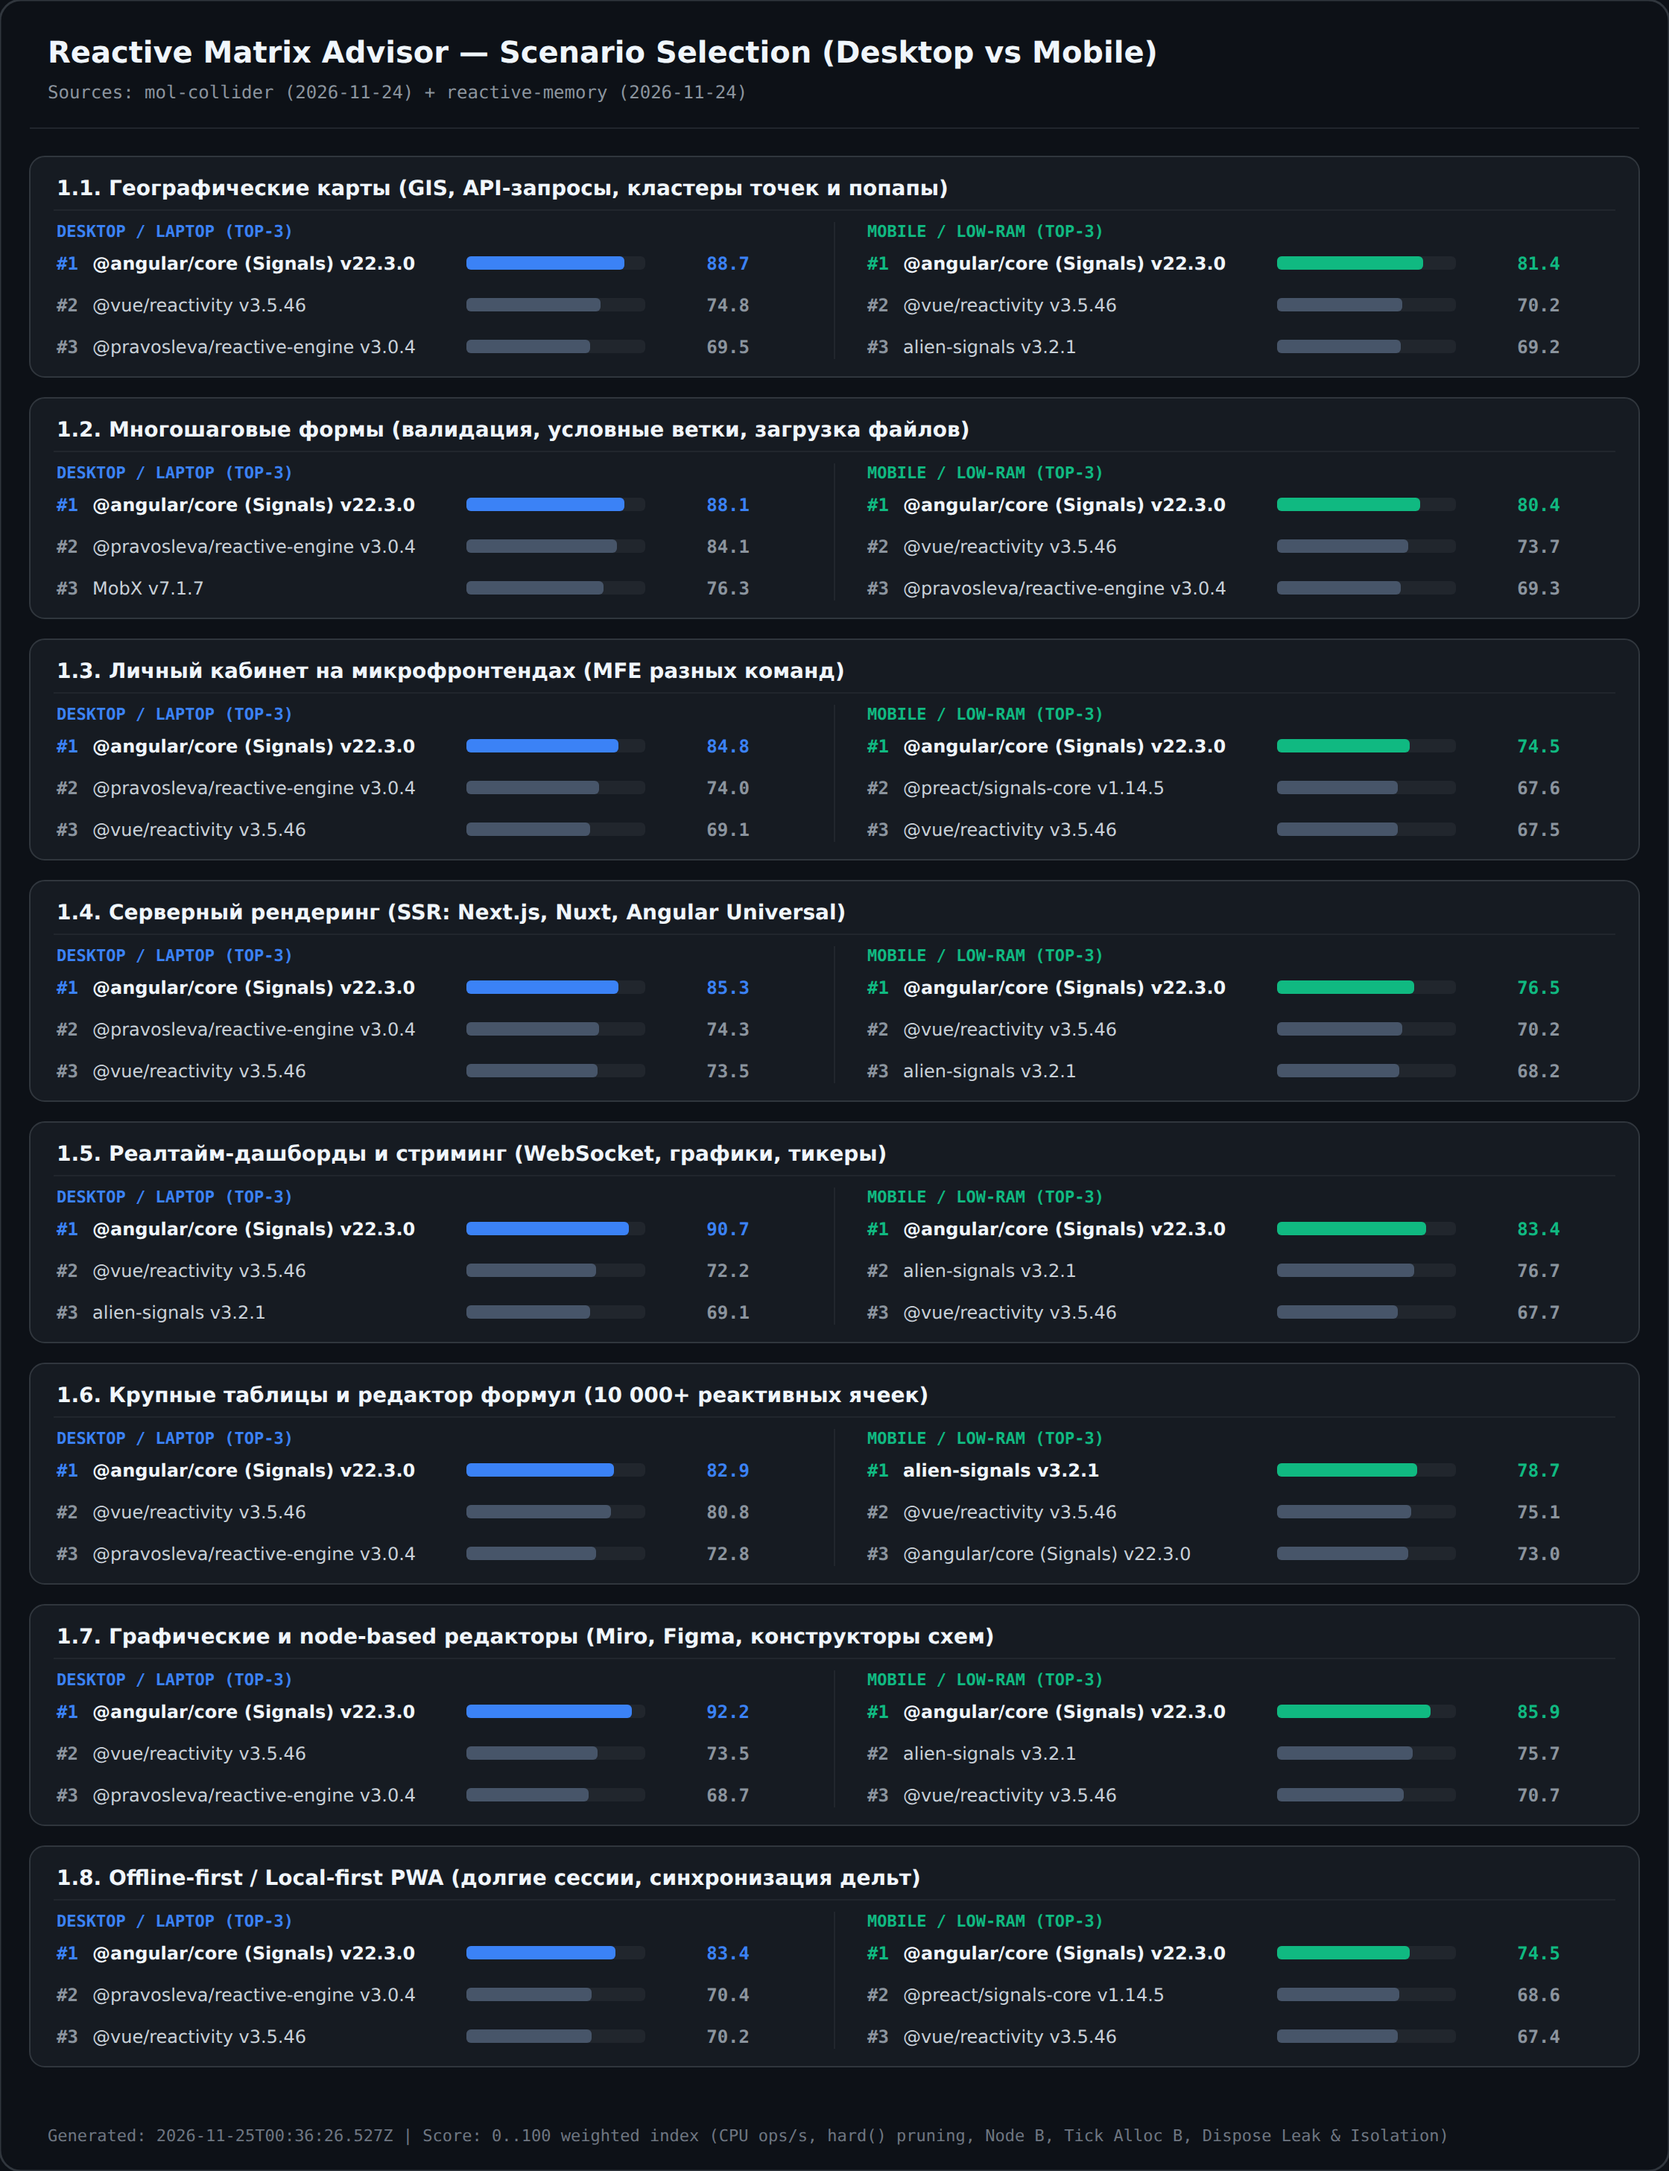
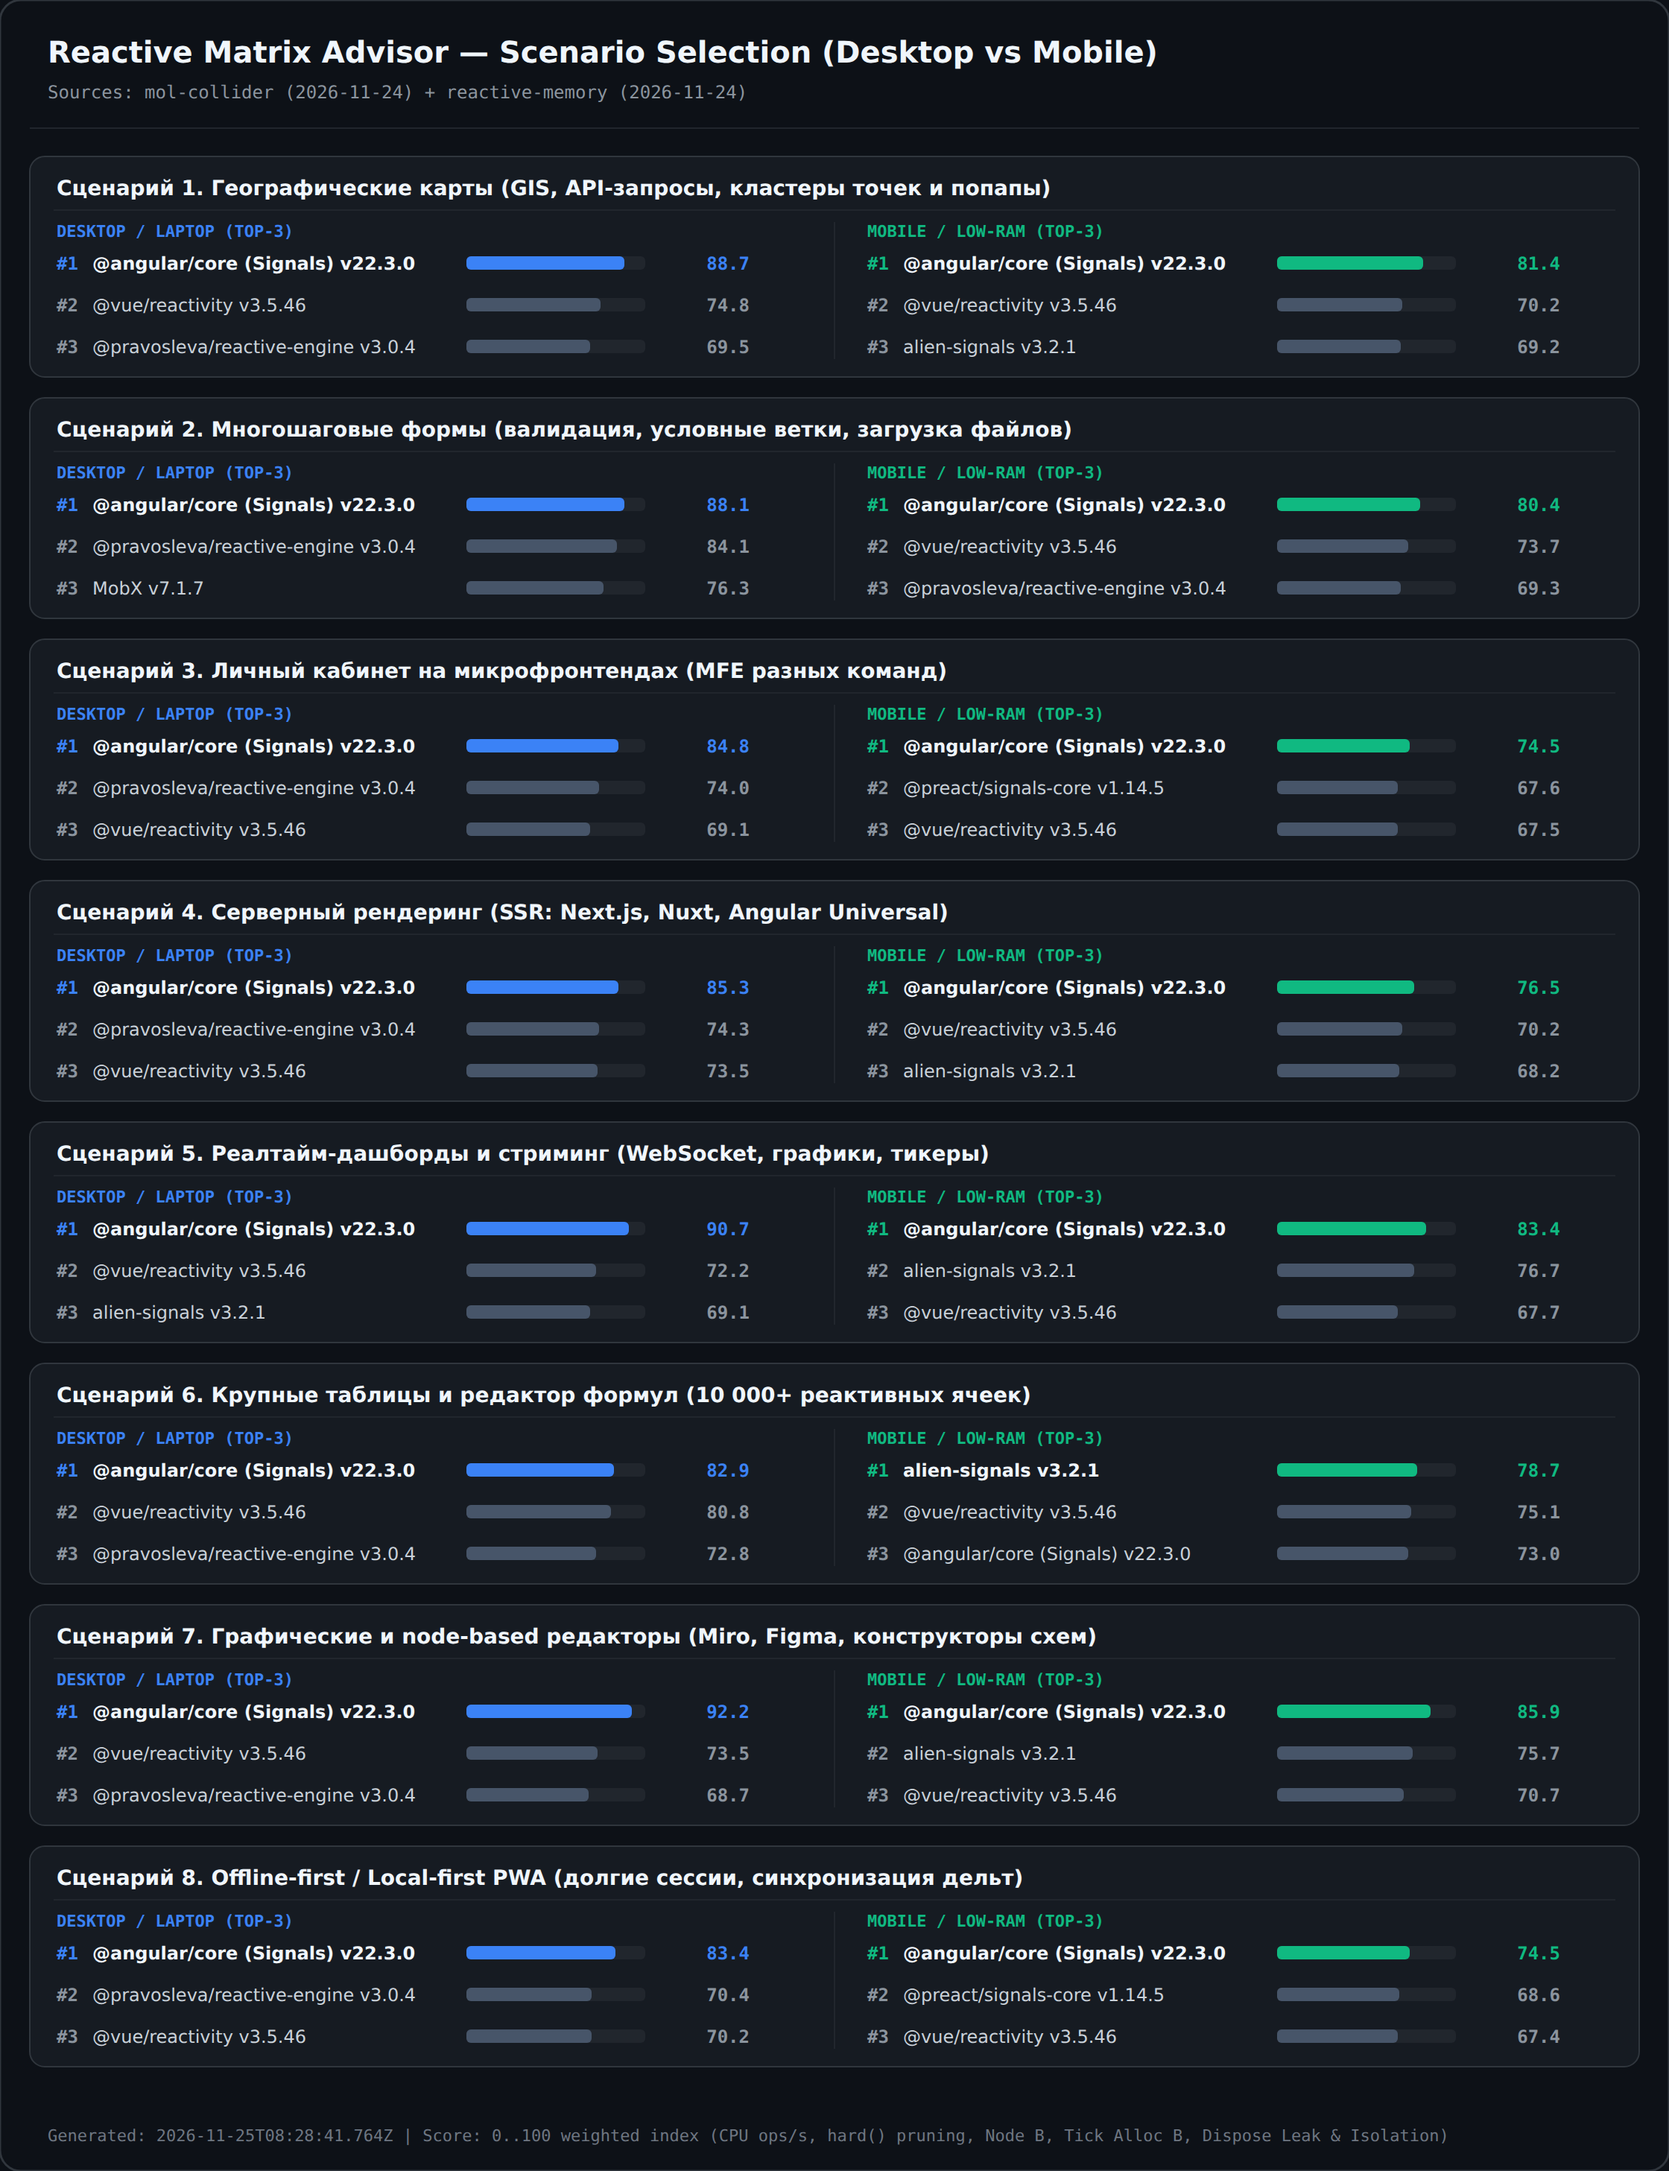
refreshed

diff --git a/README.md b/README.md
@@ -8,7 +8,7 @@
 
 ## 1. Матрица рекомендаций по сценариям (Топ-5)
 
-### 1.1. Географические карты (GIS, API-запросы, кластеры точек и попапы)
+### Сценарий 1. Географические карты (GIS, API-запросы, кластеры точек и попапы)
 
 Поток координат pan/zoom, фильтрация видимых маркеров по bbox без перерисовки неизменных точек, динамическое открытие/закрытие карточек объектов.
 
@@ -20,7 +20,7 @@
 | **#4** | **MobX** `v7.1.7` (**62**) — `7791 ops/s`, `522.6 B/node` | **@preact/signals-core** `v1.14.5` (**60.7**) — `257.7 B/node`, `401.2 B/tick` |
 | **#5** | **alien-signals** `v3.2.1` (**61.6**) — `5466 ops/s`, `251 B/node` | **@pravosleva/reactive-engine** `v3.0.4` (**58**) — `590.7 B/node`, `751.5 B/tick` |
 
-### 1.2. Многошаговые формы (валидация, условные ветки, загрузка файлов)
+### Сценарий 2. Многошаговые формы (валидация, условные ветки, загрузка файлов)
 
 Сложные графы зависимых полей, ленивое отсечение неактивных шагов мастера, асинхронные статусы загрузки файлов и очистка при смене шага.
 
@@ -32,7 +32,7 @@
 | **#4** | **@vue/reactivity** `v3.5.46` (**75.3**) — `7964 ops/s`, `330.2 B/node` | **MobX** `v7.1.7` (**63**) — `522.6 B/node`, `1544.5 B/tick` |
 | **#5** | **$mol ($mol_wire_let)** `v1.0.1852` (**74.8**) — `7606 ops/s`, `532.9 B/node` | **$mol ($mol_wire_let)** `v1.0.1852` (**61**) — `532.9 B/node`, `1343.5 B/tick` |
 
-### 1.3. Личный кабинет на микрофронтендах (MFE разных команд)
+### Сценарий 3. Личный кабинет на микрофронтендах (MFE разных команд)
 
 Несколько независимых модулей на одной странице, строгая изоляция сторов без конфликтов глобального состояния и полное уничтожение модуля при уходе.
 
@@ -44,7 +44,7 @@
 | **#4** | **MobX** `v7.1.7` (**65**) — `7791 ops/s`, `522.6 B/node` | **alien-signals** `v3.2.1` (**66.7**) — `251 B/node`, `119.4 B/tick` |
 | **#5** | **$mol ($mol_wire_let)** `v1.0.1852` (**62.5**) — `7606 ops/s`, `532.9 B/node` | **@pravosleva/reactive-engine** `v3.0.4` (**57.6**) — `590.7 B/node`, `751.5 B/tick` |
 
-### 1.4. Серверный рендеринг (SSR: Next.js, Nuxt, Angular Universal)
+### Сценарий 4. Серверный рендеринг (SSR: Next.js, Nuxt, Angular Universal)
 
 Создание изолированного графа на каждый HTTP-запрос, быстрая гидратация и гарантированное освобождение памяти после отправки HTML.
 
@@ -56,7 +56,7 @@
 | **#4** | **MobX** `v7.1.7` (**67.5**) — `7791 ops/s`, `522.6 B/node` | **@preact/signals-core** `v1.14.5` (**65.8**) — `257.7 B/node`, `401.2 B/tick` |
 | **#5** | **$mol ($mol_wire_let)** `v1.0.1852` (**65.4**) — `7606 ops/s`, `532.9 B/node` | **@pravosleva/reactive-engine** `v3.0.4` (**60.8**) — `590.7 B/node`, `751.5 B/tick` |
 
-### 1.5. Реалтайм-дашборды и стриминг (WebSocket, графики, тикеры)
+### Сценарий 5. Реалтайм-дашборды и стриминг (WebSocket, графики, тикеры)
 
 Десятки обновлений в секунду: критично отсутствие микрофризов от Minor GC (минимальный Tick Alloc) и пакетное слияние изменений.
 
@@ -68,7 +68,7 @@
 | **#4** | **@pravosleva/reactive-engine** `v3.0.4` (**64.3**) — `8271 ops/s`, `590.7 B/node` | **@preact/signals-core** `v1.14.5` (**57.9**) — `257.7 B/node`, `401.2 B/tick` |
 | **#5** | **MobX** `v7.1.7` (**56.9**) — `7791 ops/s`, `522.6 B/node` | **@pravosleva/reactive-engine** `v3.0.4` (**52.7**) — `590.7 B/node`, `751.5 B/tick` |
 
-### 1.6. Крупные таблицы и редактор формул (10 000+ реактивных ячеек)
+### Сценарий 6. Крупные таблицы и редактор формул (10 000+ реактивных ячеек)
 
 Десятки тысяч одновременно живущих узлов с перекрёстными зависимостями: решает минимальный вес узла и ленивый пересчёт только видимых ячеек.
 
@@ -80,7 +80,7 @@
 | **#4** | **MobX** `v7.1.7` (**69.7**) — `7791 ops/s`, `522.6 B/node` | **@preact/signals-core** `v1.14.5` (**70.1**) — `257.7 B/node`, `401.2 B/tick` |
 | **#5** | **$mol ($mol_wire_let)** `v1.0.1852` (**68.4**) — `7606 ops/s`, `532.9 B/node` | **@pravosleva/reactive-engine** `v3.0.4` (**58.3**) — `590.7 B/node`, `751.5 B/tick` |
 
-### 1.7. Графические и node-based редакторы (Miro, Figma, конструкторы схем)
+### Сценарий 7. Графические и node-based редакторы (Miro, Figma, конструкторы схем)
 
 Перетаскивание групп связанных блоков 60–120 FPS: критичен нулевой мусор при drag-and-drop (Tick Alloc) и локальный пересчёт только затронутых связей.
 
@@ -92,7 +92,7 @@
 | **#4** | **alien-signals** `v3.2.1` (**65.3**) — `5466 ops/s`, `251 B/node` | **@pravosleva/reactive-engine** `v3.0.4` (**55.9**) — `590.7 B/node`, `751.5 B/tick` |
 | **#5** | **MobX** `v7.1.7` (**61.9**) — `7791 ops/s`, `522.6 B/node` | **@preact/signals-core** `v1.14.5` (**53.7**) — `257.7 B/node`, `401.2 B/tick` |
 
-### 1.8. Offline-first / Local-first PWA (долгие сессии, синхронизация дельт)
+### Сценарий 8. Offline-first / Local-first PWA (долгие сессии, синхронизация дельт)
 
 Многочасовая работа без перезагрузки вкладки, массовое слияние пакетов синхронизации при появлении сети и строгая защита от утечек памяти (Leak).
 
